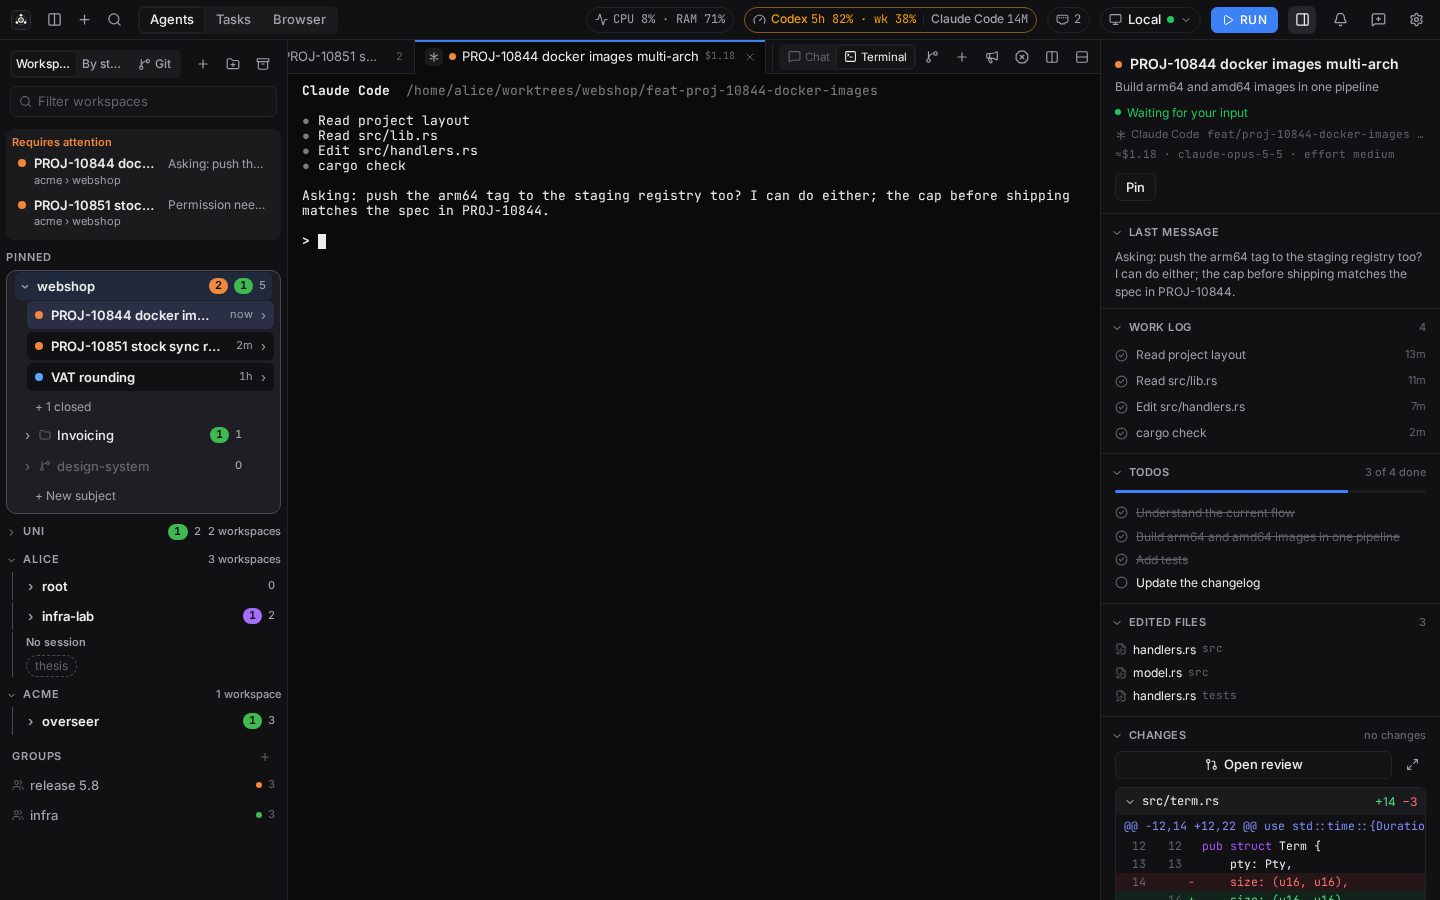
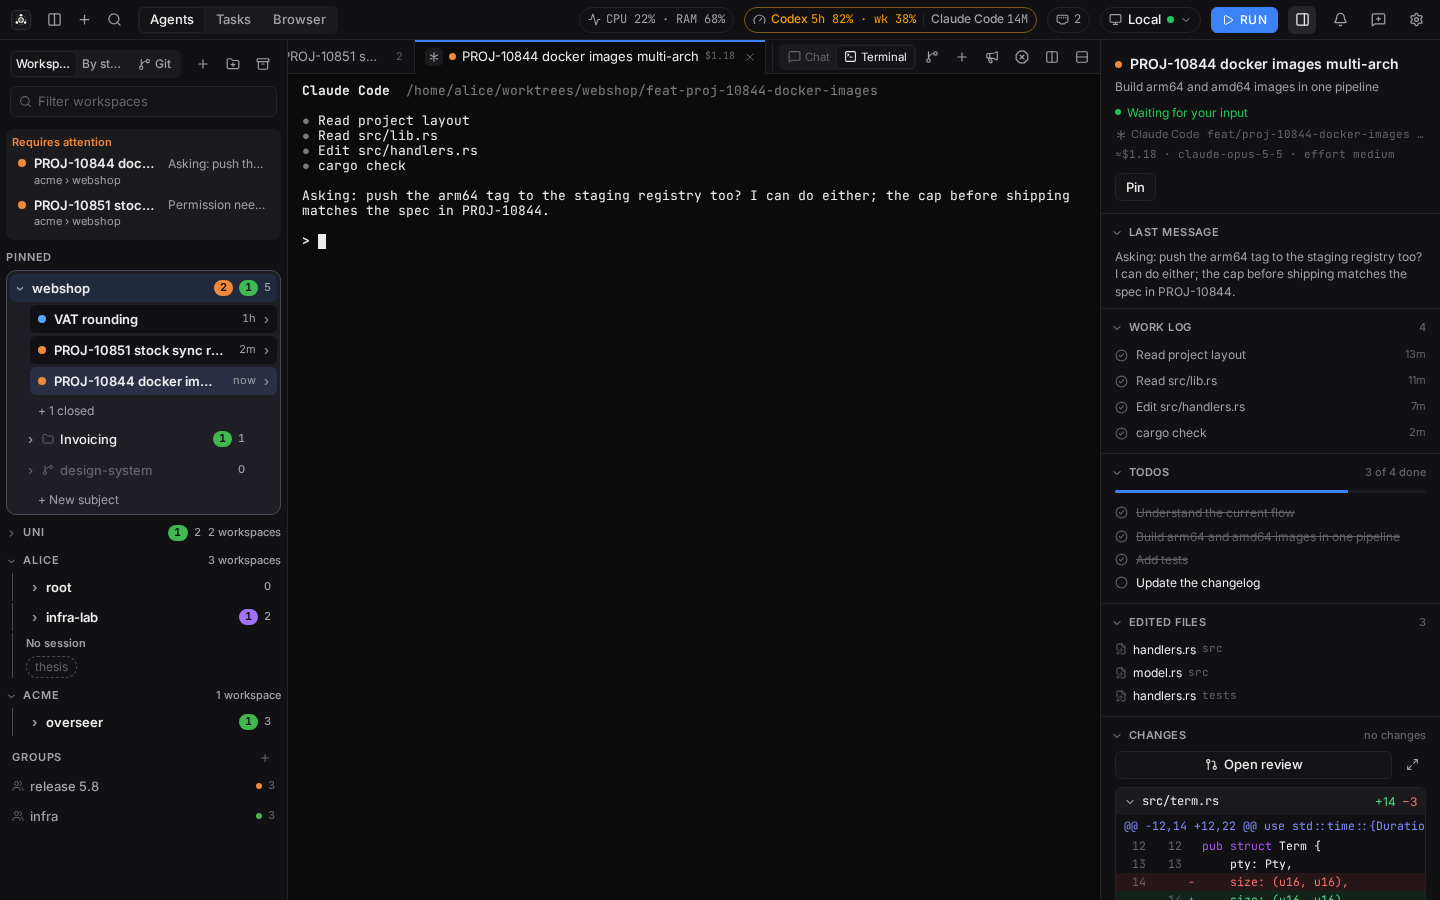
fix(sidebar): keep workspace header in place when it opens and even out frame margins

diff --git a/app/src/lib/components/sidebar/WorkspaceFrame.test.ts b/app/src/lib/components/sidebar/WorkspaceFrame.test.ts
@@ -4,6 +4,19 @@ import { render } from 'svelte/server';
 import WorkspaceFrame from './WorkspaceFrame.svelte';
 import componentSrc from './WorkspaceFrame.svelte?raw';
 import css from '../../../app.css?raw';
+import spaceBlockSrc from './SpaceBlock.svelte?raw';
+
+const rule = (src: string, sel: string) => {
+  const m = new RegExp(`\\n  ${sel.replace('.', '\\.')} \\{([^}]*)\\}`).exec(src.slice(src.indexOf('<style>')));
+  if (!m) throw new Error(`no rule for ${sel}`);
+  return m[1];
+};
+const box = (r: string, prop: string) => {
+  const v = new RegExp(`(?:^|\\s)${prop}:\\s*([^;]+);`).exec(r)?.[1].trim().split(/\s+/).map(parseFloat) ?? [0];
+  const [t, rt = t, b = t, l = rt] = v;
+  return { top: t, right: rt, bottom: b, left: l };
+};
+const border = (r: string) => parseFloat(/(?:^|\s)border:\s*(\d+)px/.exec(r)?.[1] ?? '0');
 
 const snip = (s: string) => createRawSnippet(() => ({ render: () => `<i>${s}</i>` }));
 
@@ -48,5 +61,29 @@ describe('WorkspaceFrame', () => {
     const light = css.slice(0, css.indexOf(":root[data-theme='dark']"));
     expect(light).toMatch(/--ws-frame-border:/);
     expect(light).toMatch(/--session-row-bg:/);
+  });
+
+  it('keeps a workspace header where it sat while folded, so opening it does not shift it', () => {
+    // Given a folded workspace row and an open one, framed
+    // When their horizontal offsets are added up
+    // Then the header line starts and ends at the same x in both
+    const frame = rule(componentSrc, '.frame');
+    const head = box(rule(componentSrc, '.head'), 'padding');
+    const solo = rule(spaceBlockSrc, '.solo');
+    const fm = box(frame, 'margin');
+    const sm = box(solo, 'margin');
+    const sp = box(solo, 'padding');
+    expect(sm.left + sp.left).toBe(fm.left + border(frame) + head.left);
+    expect(sm.right + sp.right).toBe(fm.right + border(frame) + head.right);
+  });
+
+  it('insets the header and the rows by the same margin on every side', () => {
+    // Given the frame paddings
+    // When the head and body insets are compared
+    // Then all four sides match and the body only skips the top, which the head already pads
+    const head = box(rule(componentSrc, '.head'), 'padding');
+    const body = box(rule(componentSrc, '.body'), 'padding');
+    expect(new Set([head.top, head.right, head.bottom, head.left]).size).toBe(1);
+    expect(body).toEqual({ top: 0, right: head.left, bottom: head.left, left: head.left });
   });
 });

diff --git a/app/src/lib/components/sidebar/WorkspaceFrame.svelte b/app/src/lib/components/sidebar/WorkspaceFrame.svelte
@@ -24,8 +24,7 @@
     display: flex;
     align-items: center;
     gap: 8px;
-    min-height: 30px;
-    padding: 0 8px;
+    padding: 3px;
   }
   .name {
     flex: 1;
@@ -45,7 +44,7 @@
     display: flex;
     flex-direction: column;
     gap: 3px;
-    padding: 0 6px 6px 0;
+    padding: 0 3px 3px;
   }
   :global(:root.phone) .frame {
     border-radius: 14px;

diff --git a/app/src/lib/components/sidebar/StateGroups.svelte b/app/src/lib/components/sidebar/StateGroups.svelte
@@ -37,6 +37,7 @@
 <style>
   .gname {
     display: block;
-    padding: 0;
+    padding: 0 5px;
+    line-height: 28px;
   }
 </style>

diff --git a/app/src/lib/components/sidebar/SpaceBlock.svelte b/app/src/lib/components/sidebar/SpaceBlock.svelte
@@ -199,6 +199,7 @@
 <style>
   .solo {
     margin: 0 6px;
+    padding: 0 4px;
   }
   .line {
     position: relative;
